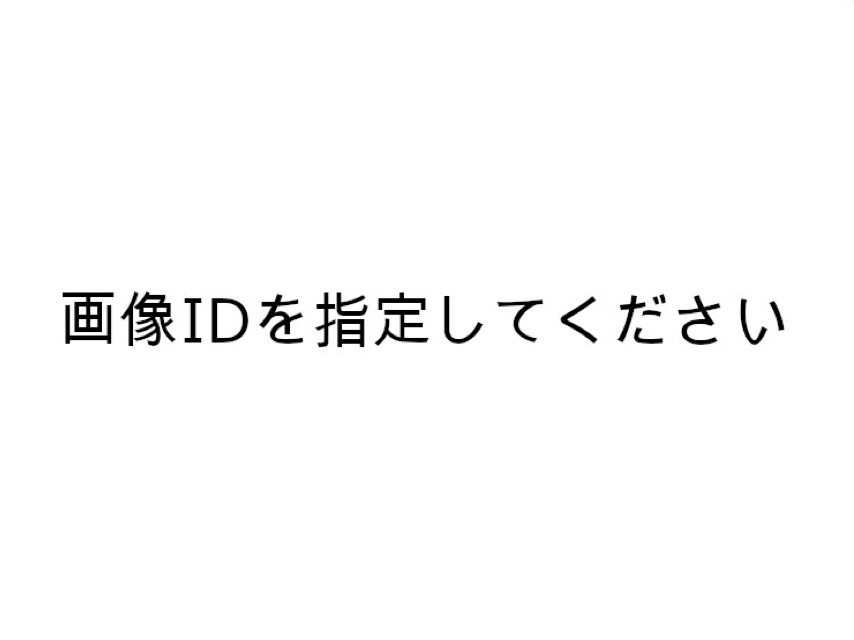
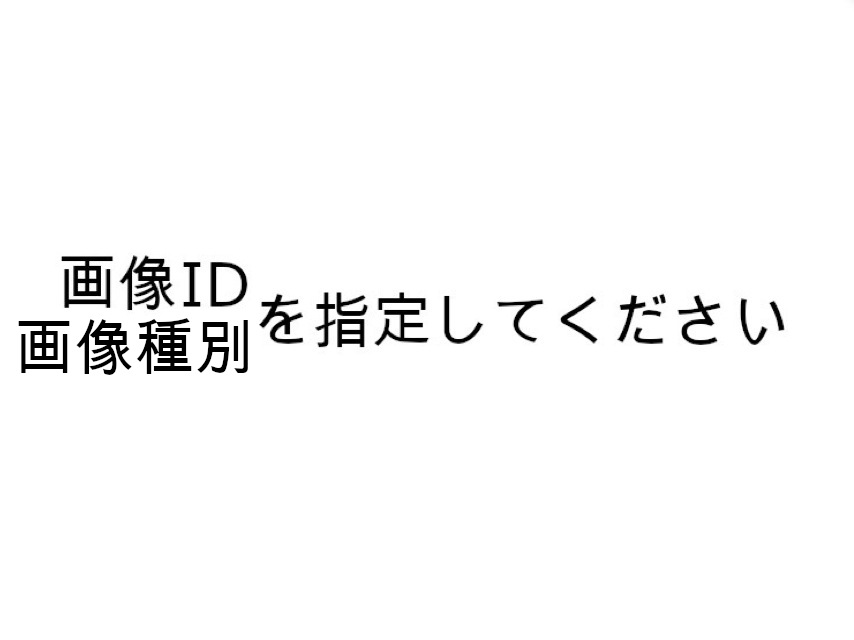
データベースを使用しないように変更

Changed region(s): [[0.0, 0.375, 0.3044, 0.5938]]

diff --git a/upload.php b/upload.php
@@ -13,9 +13,6 @@
     include_once __DIR__ . "/utils/auth.php";
     $auth_util = new Auth();
 
-    include_once __DIR__ . "/utils/data.php";
-    $data = new DataManager();
-
     if(empty($_COOKIE['jwt'])) {
         echo '{ "status" : 401, "message" : "Your token is missing." }';
         exit;
@@ -50,23 +47,23 @@
         "status" => 200,
         "results" => array()
     );
+
+    $type = basename($_GET['type']);
     
     foreach ($_FILES["files"]["error"] as $key => $error) {
         if ($error == UPLOAD_ERR_OK) {
             $uid = makeRandStr(15);
-            while($data->isExist($uid)) {
+            while(file_exists(__DIR__ . "/images/" . $type . "/" . $uid)) {
                 $uid = makeRandStr(20);
             }
             $tmp_name = $_FILES["files"]["tmp_name"][$key];
             $name = basename($_FILES["files"]["name"][$key]);
             $ext = substr($name, strrpos($name, '.') + 1);
-            move_uploaded_file($tmp_name, __DIR__ . "/images/" . $_GET['type'] . "/" . $uid . "." . $ext);
-            echo "Moved to: " . __DIR__ . "/images/" . $_GET['type'] . "/" . $uid . "." . $ext;
+            move_uploaded_file($tmp_name, __DIR__ . "/images/" . $_GET['type'] . "/" . $uid);
             $resp["results"][count($resp["results"])] = array(
                 "error"=>$error,
                 "id"=>$uid 
             );
-            $data->register($uid, $_GET['type'], $uid . "." . $ext);
         } else {
             $resp["results"][count($resp["results"])] = array(
                 "error"=>$error,

diff --git a/view.php b/view.php
@@ -12,9 +12,6 @@
     include_once __DIR__ . "/utils/auth.php";
     $auth_util = new Auth();
 
-    include_once __DIR__ . "/utils/data.php";
-    $data = new DataManager();
-
     if(empty($_COOKIE['jwt'])) {
         show_img('./images/error_login.jpg');
         exit;
@@ -30,21 +27,22 @@
         exit;
     }
         
-    if(empty($_GET['id'])) {
+    if(empty($_GET['id']) || empty($_GET['type'])) {
         show_img('./images/error_parameter.jpg');
         exit;
     }
+    $type = basename($_GET["type"]);
+    $id = basename($_GET["id"]);
 
-    $info = $data->getInfo($_GET['id']);
-    if($info == null) {
+    if(!file_exists(__DIR__ . "/images/" . $type . "/" . $id)) {
         show_img('./images/error_notfound.jpg');
         exit;
     }
 
-    if(!$auth_util->hasPermission($info["type"])){
+    if(!$auth_util->hasPermission($type)){
         show_img('./images/error_permission.jpg');
         exit;
     }
 
-    show_img('./images/' . $info["type"] . "/" . $info["uid"] . "-" . $info["filename"]);
+    show_img('./images/' . $type . "/" . $id);
 ?>

diff --git a/auth.php b/auth.php
@@ -68,6 +68,6 @@
         setcookie('jwt', $jwt);
         echo '{ "status" : 200 }';
     } else {
-        echo '{ "status" : 400 }';
+        echo '{ "status" : 401 }';
     }
 ?>
